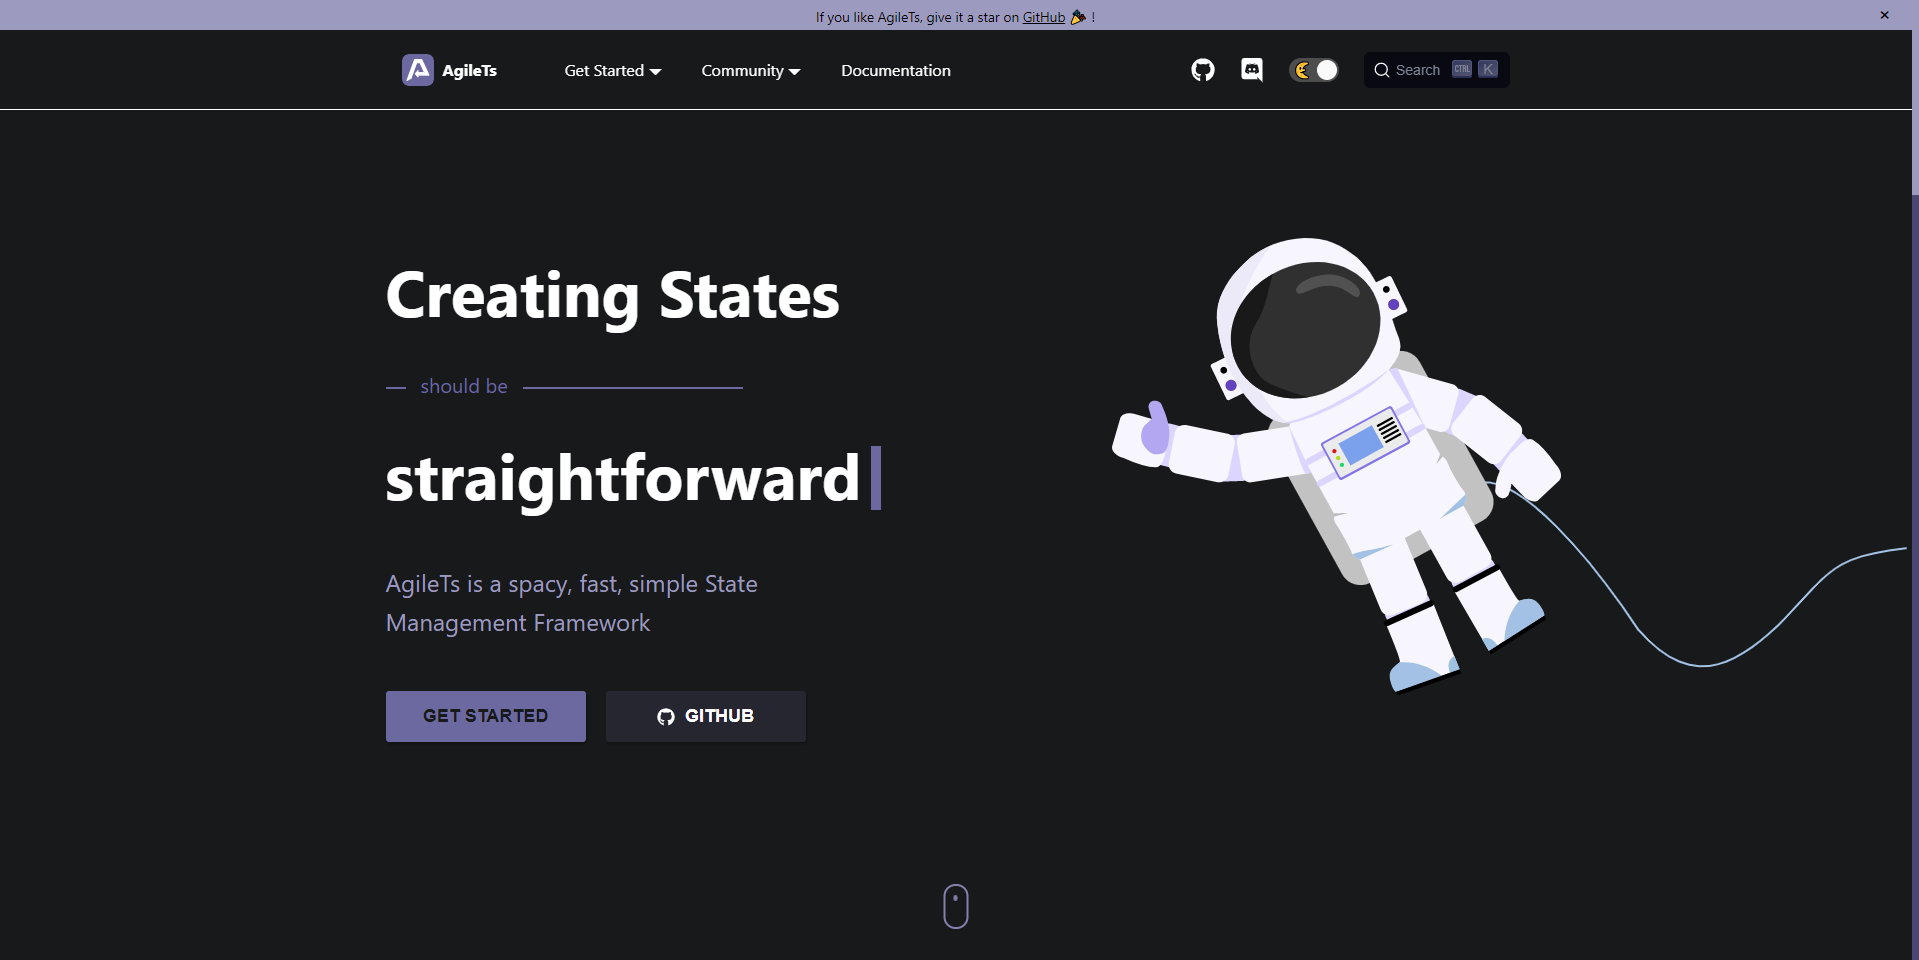
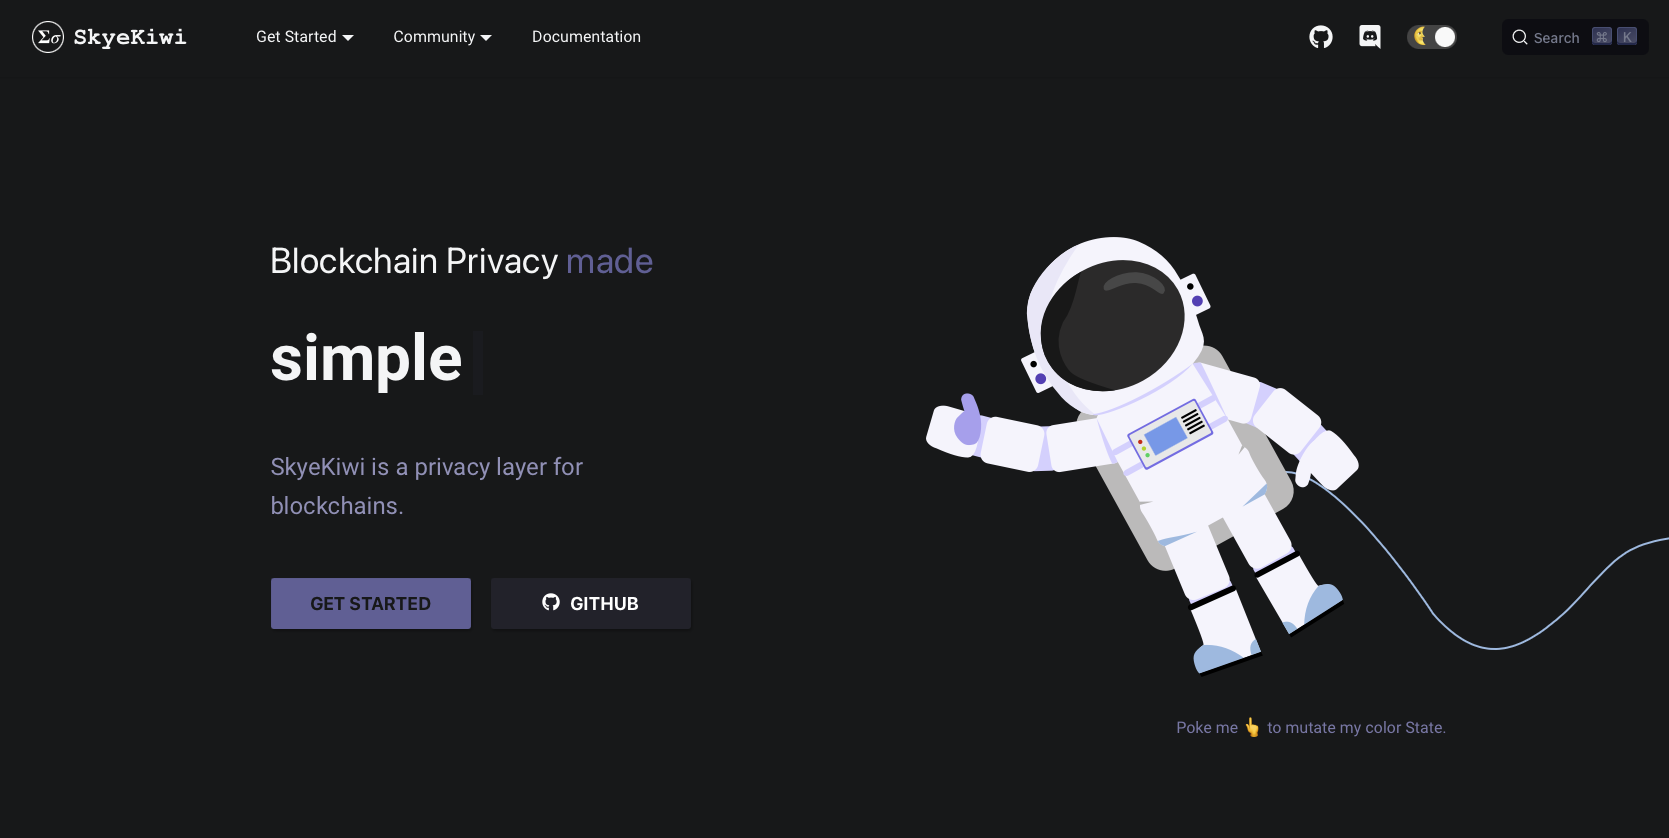
update readme

diff --git a/docusaurus.config.js b/docusaurus.config.js
@@ -122,16 +122,16 @@ const config = {
           position: 'left',
           items: [
             {
-              label: 'Installation',
-              to: '/docs/installation/',
+              label: 'Introduction',
+              to: '/docs/introduction/',
             },
             {
-              label: 'React',
-              to: '/docs/quick-start/react/',
+              label: 'Quick Start',
+              to: '/docs/quick-start/index/',
             },
             {
-              label: 'Style Guide',
-              to: '/docs/style-guide/',
+              label: 'Contributing',
+              to: '/docs/contributing/',
             },
             {
               label: 'Examples',
@@ -213,10 +213,6 @@ const config = {
             {
               label: 'Cookie Policy',
               to: '/legal/cookie-notice',
-            },
-            {
-              label: 'Blog',
-              to: '/blog/',
             },
           ],
         },

diff --git a/docs/main/Virtual-Machines.md b/docs/main/Virtual-Machines.md
@@ -7,35 +7,11 @@ description: SkyeKiwi Network supports multiple virtual machines.
 image: img/meta.png
 ---
 
-A quick overview of all frameworks that AgileTs supports
-or has planned to support in the near future.
+## ❗Work in Progres❗
 
-### 👾 UI-Frameworks
+## NEAR Virtual Machines
 
-| Framework                                | Supported | Planned |
-|------------------------------------------|-----------|---------|
-| [React](https://reactjs.org)             | ✅        | -       |
-| [React-Native](https://reactnative.dev/) | ✅        | -       |
-| [Angular](https://angular.io/)           | ❌        | 🟨      |
-| [Vue](https://vuejs.org/)                | 🟨       | ✅       |
-| [Svelte](https://svelte.dev/)            | ❌        | ✅       |
 
-### 🤖 SSR-Frameworks
+## Ethereum Virtual Machine 
 
-| Framework                           | Supported | Planned |
-|-------------------------------------|-----------|---------|
-| [NextJs](https://nextjs.org/)       | 🟨        | ✅      |
-| [Gatsby](https://www.gatsbyjs.com/) | 🟨        | ✅      |
-| [Razzle](https://razzlejs.org/)     | 🟨        | -       |
-
-### 📕 Glossary
-
-#### Supported
-- ✅ - AgileTs supports this Framework
-- 🟨 - AgileTs supports this Framework partly (-> hasn't been extensively tested, and the workflow needs to be improved)
-- ❌ - AgileTs doesn't support this Framework
-
-#### Planned
-- ✅ - AgileTs will support this Framework in the future
-- 🟨 - AgileTs might (if there is interest) support this Framework in the future
-- ❌ - AgileTs won't support this Framework
+## zkSNARK Virtual Machine

diff --git a/README.md b/README.md
@@ -1,17 +1,24 @@
-# agile-ts.org
+# SkyeKiwi Documentation
 
 <div align="center">
-  <a href="https://agile-ts.org">
+  <a href="https://docs.skye.kiwi">
     <img src=".github/static/landing.png"/>
   </a>
 </div>
 
-[This website](https://agile-ts.org) is built using
+[This website](https://docs.skye.kiwi) is built upon [AgileTS](https://agile-ts.org) using
 [Docusaurus 2](https://v2.docusaurus.io/). Pages & components are written in TypeScript, the styles in vanilla CSS with
 variables using
 [CSS Modules](https://github.com/css-modules/css-modules).
 (We would have preferred using [styled-components](https://styled-components.com/) but docusaurus has no ssr support for
 it yet)
+
+
+## Deployment
+Our documentation website is proudly deployed on [Railway App](https://railway.app). Along with our internal automation toolchains, our discord and telegram bots. As Web3 developers ourselves, we still deploy some internal lightweight tools onto Web2 infrastractures, and Railway is so far the best. Give it a try :) You will like it too.
+
+[![Deploy on Railway](https://railway.app/button.svg)](https://railway.app)
+
 
 ## Installation
 
@@ -35,10 +42,3 @@ yarn build
 
 This command generates static content into the `build` directory and can be served using any static contents hosting service.
 
-## Deployment
-
-```console
-GIT_USER=<Your GitHub username> USE_SSH=true yarn deploy
-```
-
-If you are using GitHub pages for hosting, this command is a convenient way to build the website and push to the `gh-pages` branch.

diff --git a/docs/main/Philosophy.md b/docs/main/Philosophy.md
@@ -7,31 +7,4 @@ description: Some inherative building philosophy behind SkyeKiwi.
 image: img/meta.png
 ---
 
-`AgileTs` is essentially a set of node modules 
-[packages](https://github.com/agile-ts/agile/tree/master/packages) 
-that can be installed over [npm](https://www.npmjs.com/).
-
-### 🔑 Requirements
-
-- [Node.js](https://nodejs.org/en/) version >= 10.15.1 or above (which can be checked by running `node -v`)
-
-### 🚀 Quick Start
-
-To make your start as frictionless as possible, we have prepared some quick start guides for you. 
-You can follow these guides to get AgileTs up and running in your without wasting any time. 
-Below you find quick start guides for already supported UI-Frameworks.
-
-- [React / React-Native](../quick_start/React.md)
-- [Vue](../quick_start/Vue.md)
-
-### 📁 Packages
-
-Separate installation guides for particular AgileTs packages.
-
-- [@agile-ts/core](../packages/core/Installation.md)
-- [@agile-ts/react](../packages/react/Installation.md)
-- [@agile-ts/vue](../packages/vue/Installation.md)
-- [@agile-ts/multieditor](../packages/multieditor/Installation.md)
-- [@agile-ts/api](../packages/api/Installation.md)
-- [@agile-ts/event](../packages/event/Installation.md)
-
+## Work In Progress

diff --git a/docs/main/Introduction.md b/docs/main/Introduction.md
@@ -67,10 +67,10 @@ SkyeKiwi Network will be cross-chain ready in the Polkadot/Kusama parachain syst
 
 ## 🎉 Credits {#credits}
 
-This ducomentation website is built upon a template crafted by [AgileTs](/). 
+This ducomentation website is built upon a template crafted by [AgileTs](https://agile-ts.org). 
 
 ## ❓ Something missing {#something-missing}
 
 If you find issues with the documentation or have suggestions on how to improve the documentation or the project in
-general, please [file an issue](https://github.com/agile/agile-ts/issues) for us or join
-our [Community Discord](https://discord.gg/T9GzreAwPH) and notice it in the `#issue` channel.
+general, please [file an issue](https://github.com/skyekiwi/documentation) for us or join
+our [Community Discord](https://discord.gg/274zjNkC) and notice it in the `#issue` channel.

diff --git a/docs/main/Contributing.md b/docs/main/Contributing.md
@@ -1,6 +1,6 @@
 ---
 id: contributing
-title: Contributing to AgileTs
+title: Contributing to SkyeKiwi
 sidebar_label: Contributing
 slug: /contributing
 description: Contributions to AgileTs are not hard and very welcome.
